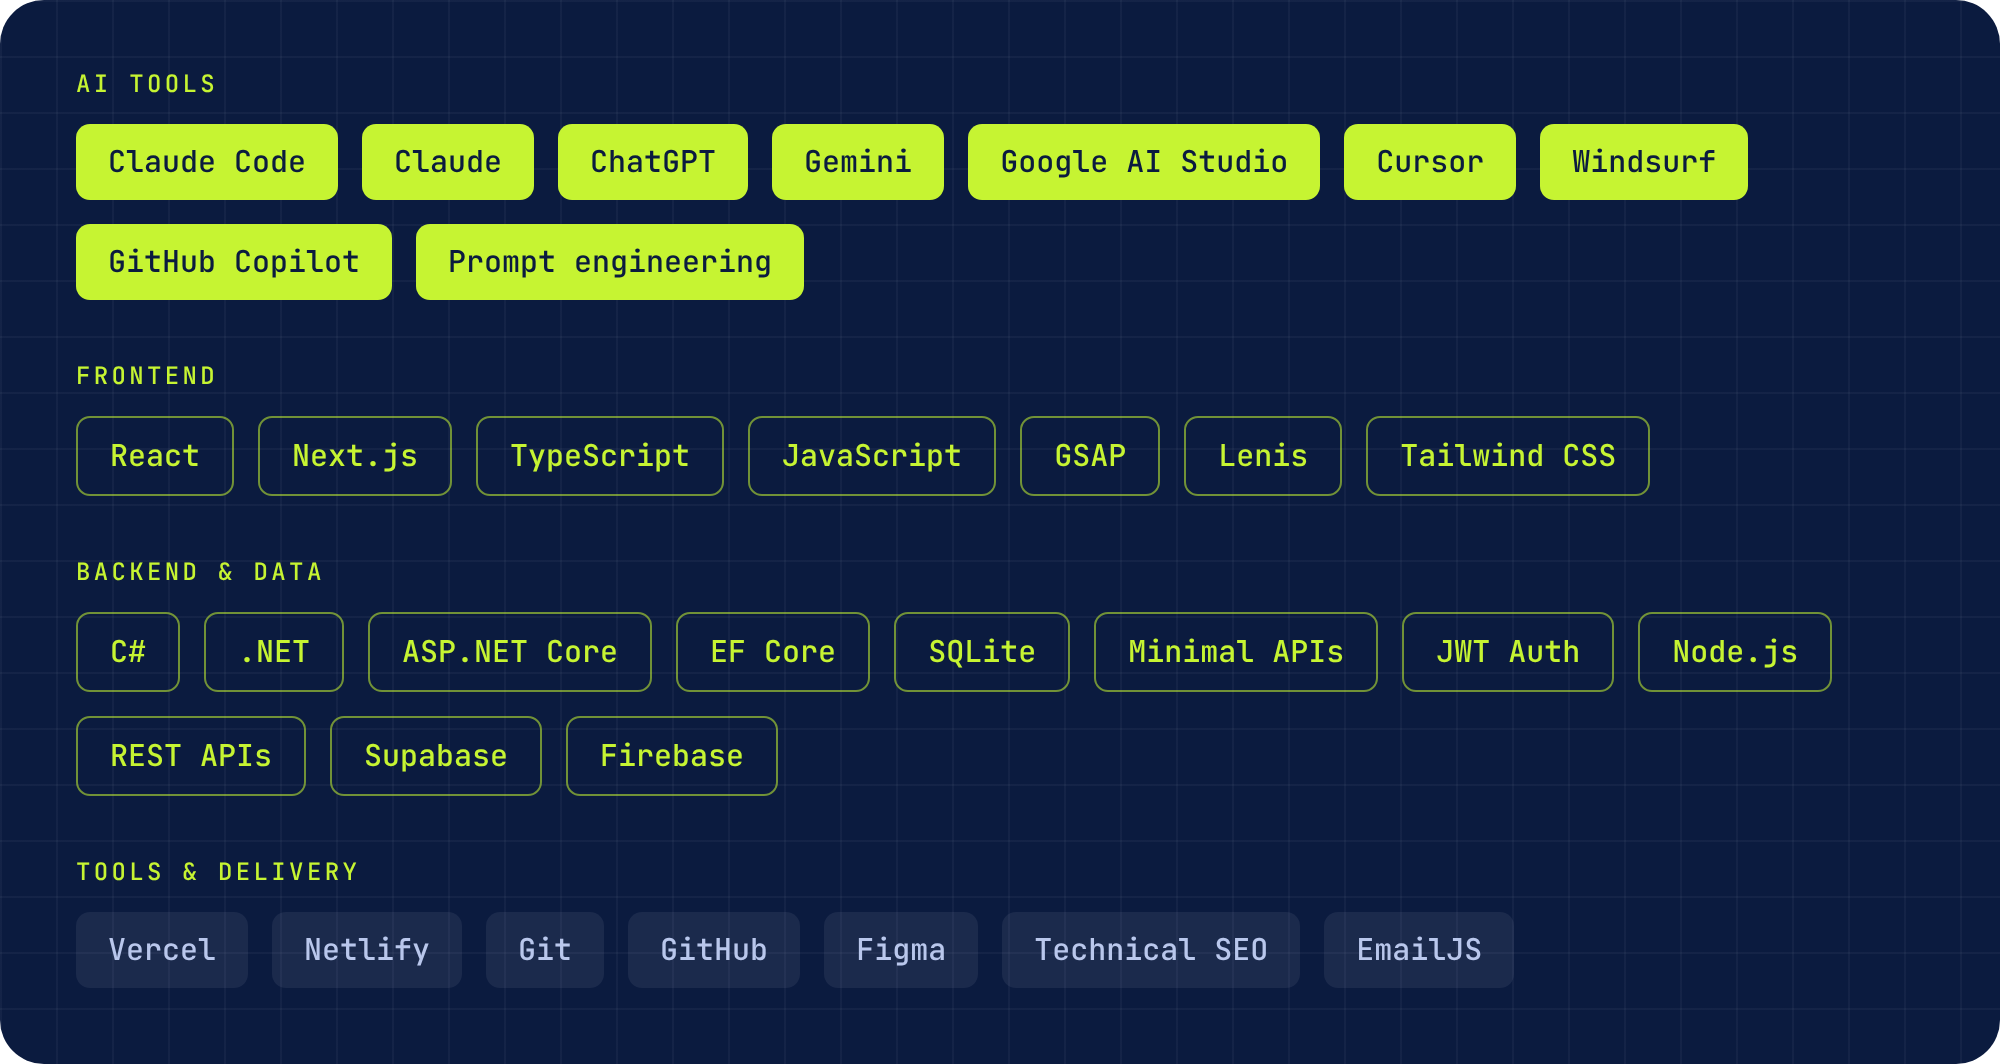
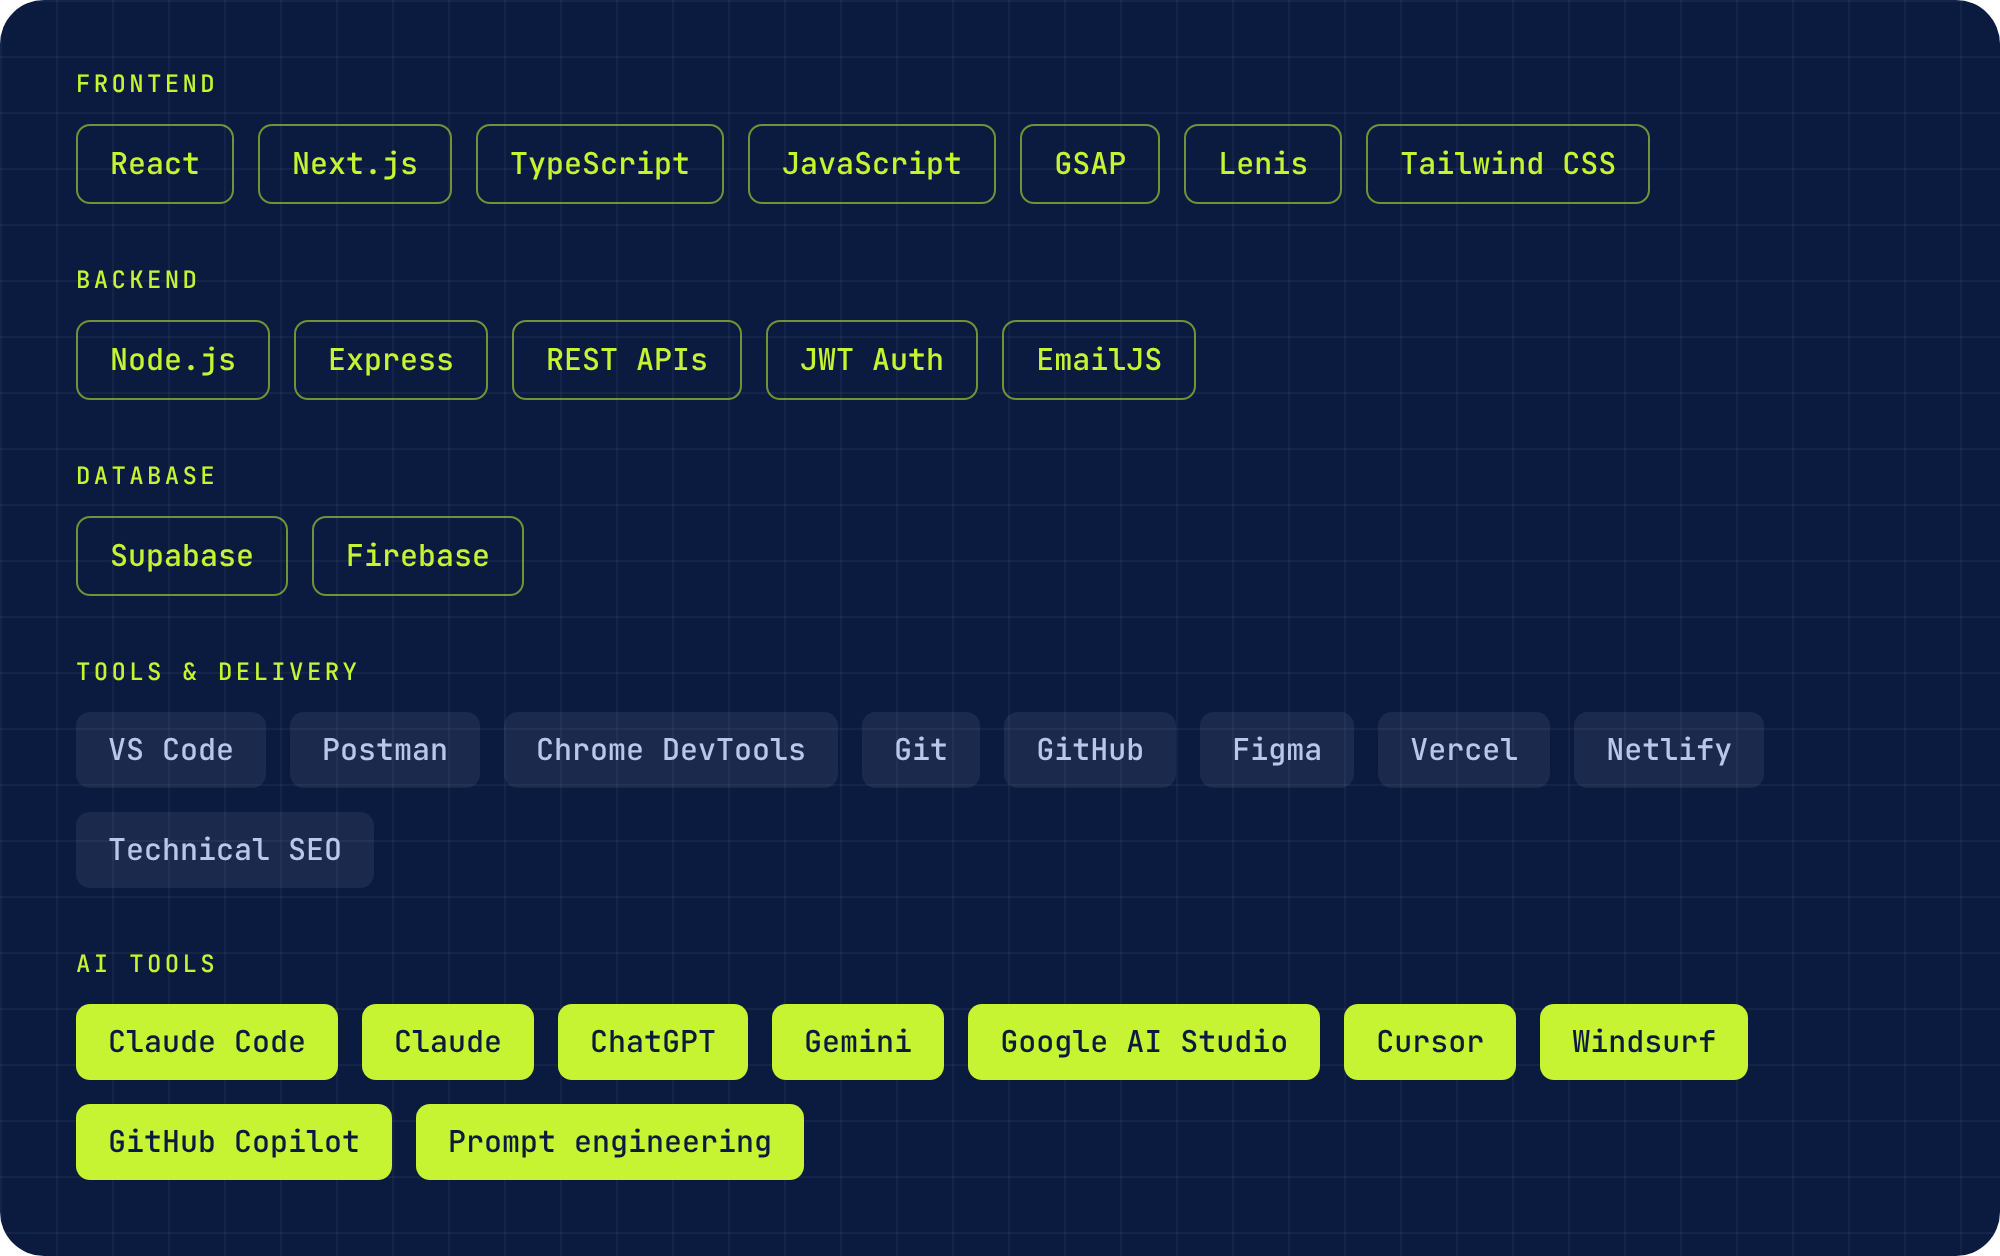
Update stack: tools before AI, Node.js backend, Supabase and Firebase
Claude-Session: https://claude.ai/code/session_01HGHfPmUi3YerWZdedQLmNX

diff --git a/README.md b/README.md
@@ -37,7 +37,7 @@ My portfolio is written for people and for AI agents: every page has structured 
 
 ### Stack
 
-<img src="assets/stack.png" alt="AI tools: Claude Code, Claude, ChatGPT, Gemini, Google AI Studio, Cursor, Windsurf, GitHub Copilot. Frontend: React, Next.js, TypeScript, JavaScript, GSAP, Lenis, Tailwind CSS. Backend and data: C#, .NET, ASP.NET Core, EF Core, SQLite, Minimal APIs, JWT, Node.js, REST APIs, Supabase, Firebase. Tools: Vercel, Netlify, Git, GitHub, Figma, Technical SEO, EmailJS." width="100%">
+<img src="assets/stack.png" alt="Frontend: React, Next.js, TypeScript, JavaScript, GSAP, Lenis, Tailwind CSS. Backend: Node.js, Express, REST APIs, JWT, EmailJS. Database: Supabase, Firebase. Tools: VS Code, Postman, Chrome DevTools, Git, GitHub, Figma, Vercel, Netlify, Technical SEO. AI tools: Claude Code, Claude, ChatGPT, Gemini, Google AI Studio, Cursor, Windsurf, GitHub Copilot." width="100%">
 
 ### What I've shipped
 
